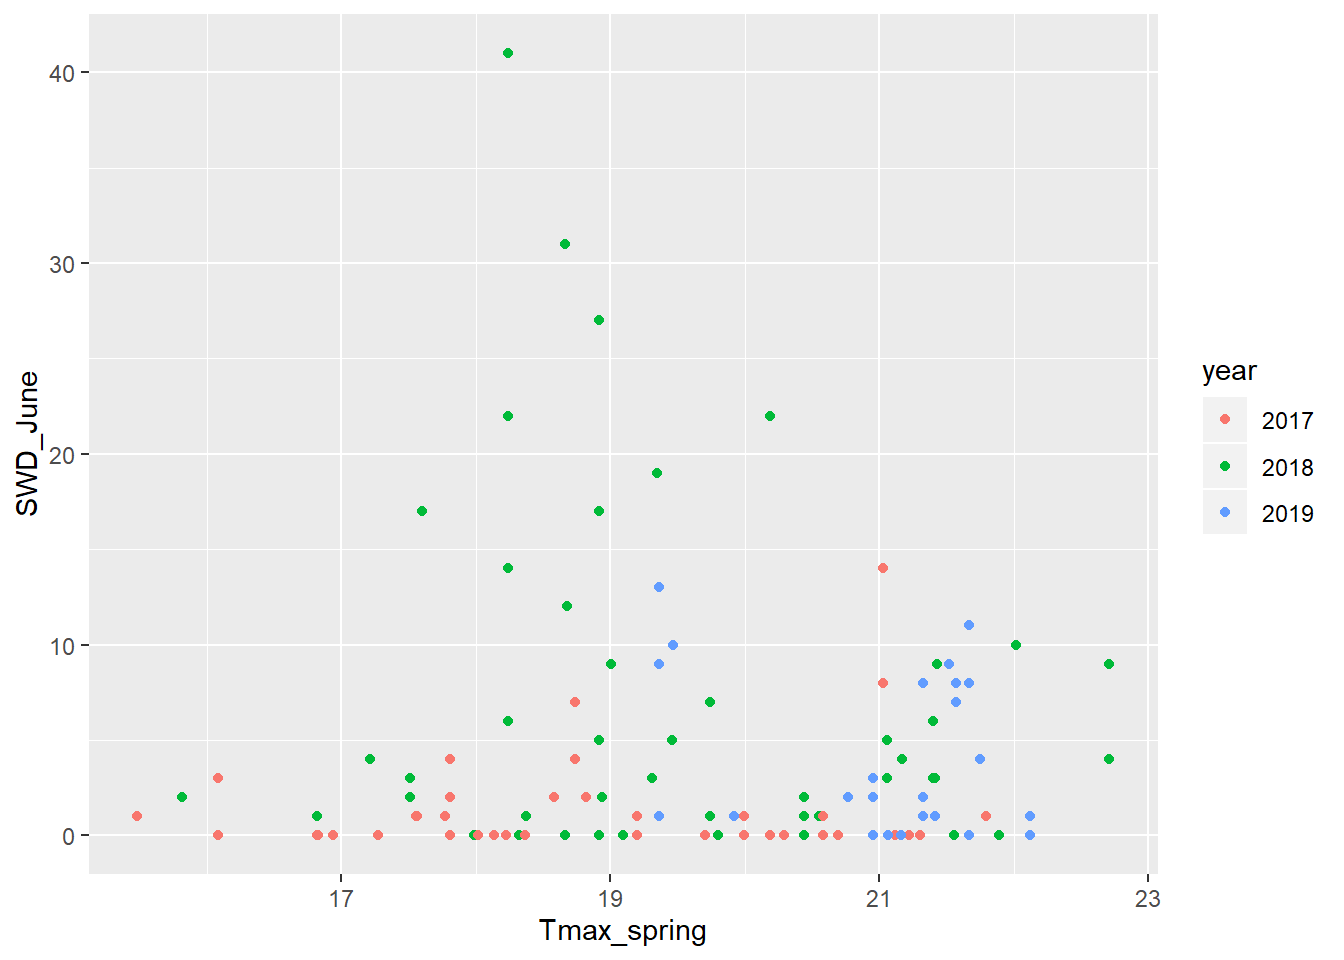
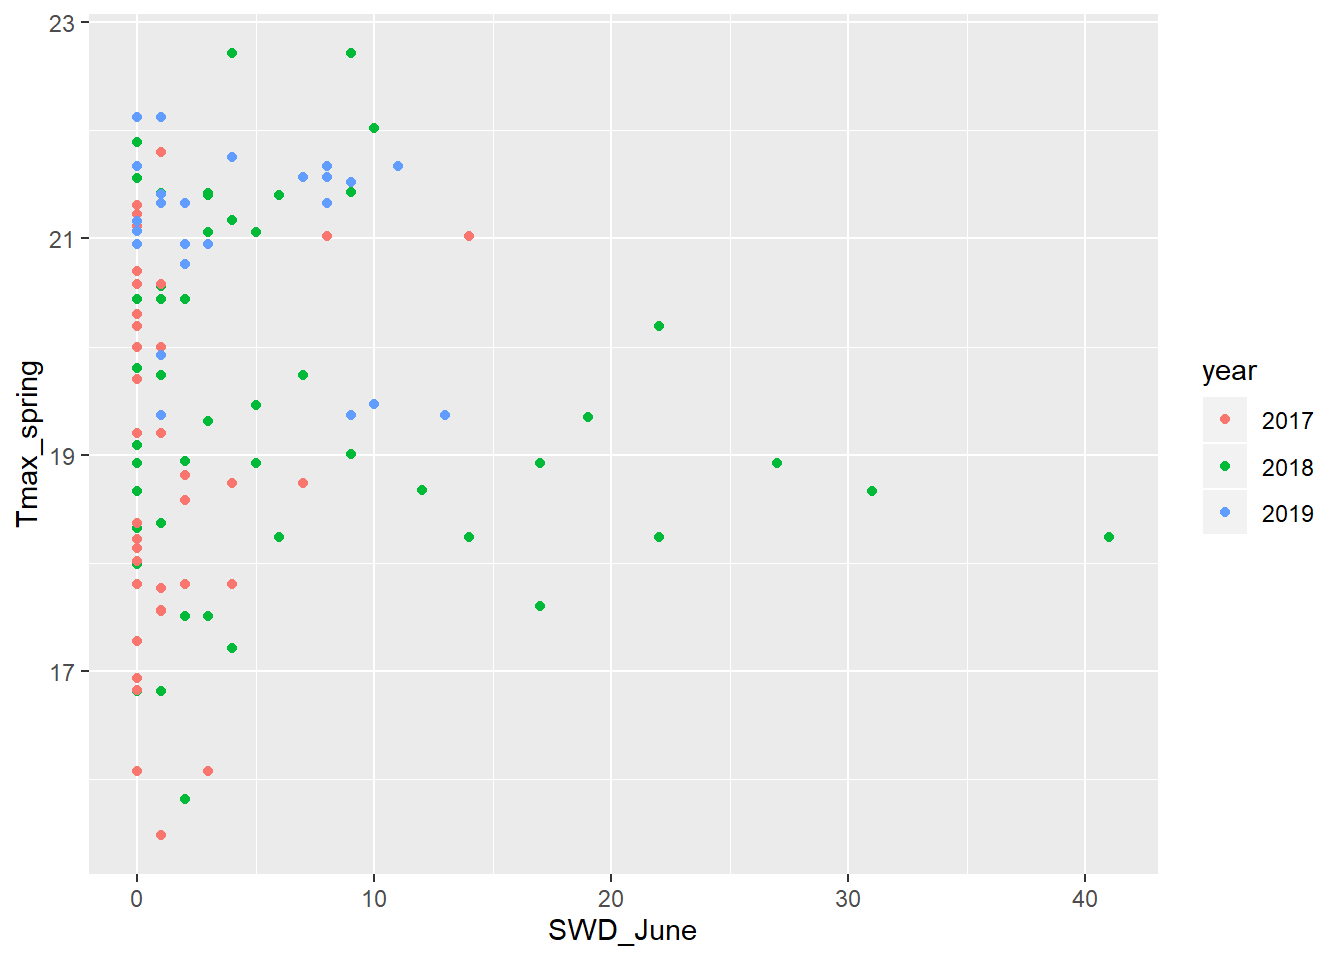
correct text

diff --git a/docs/swd_weather_cleanup.html b/docs/swd_weather_cleanup.html
@@ -2385,11 +2385,11 @@ for(n in seq(1, num_items)) {
 write.csv(weather_variables, &quot;C:/Users/rendonda/Documents/Oregon State/Datasheets/SWD wild sites/Weather station data/US pest stations/DD models/clean weather data/weather_station_list_results_2019.csv&quot;, na=&quot;&quot;, row.names = FALSE)</code></pre>
 <p>And this is then what the resulting dataframe with the weather variables for 2019 looks like: <img src="Images/Pic_9.PNG" width="842" /></p>
 <p>Which I can then manually copy and paste into the larger database, or bind using inner_join or left_join. The end result is this, highlighting 2019 newly formatted and added data under the old 2017 data. This same script can be reused for 2020, and any following year… <img src="Images/Pic_10.PNG" width="943" /></p>
-<p>Let’s visually examine it and see what it looks like. I’ll compare the total SWD collected in 2017, 2018, and 2019 as a function of the maximum spring temperature.</p>
+<p>Let’s visually examine it and see what it looks like. I’ll compare the total SWD collected in June as a function of the maximum spring temperature for 2017, 2018, and 2019.</p>
 <pre class="r"><code>swd_weather &lt;- read.csv(&quot;C:/Users/rendonda/Documents/Oregon State/Datasheets/SWD wild sites/SWD_traps_HR_Wasco_171819.csv&quot;, stringsAsFactors = FALSE)
 swd_weather$year &lt;- as.character(swd_weather$year)
 ggplot(data = swd_weather)+
-  geom_point(mapping= aes(x = Tmax_spring, y = SWD_June, color = year))</code></pre>
+  geom_point(mapping= aes(y = Tmax_spring, x = SWD_June, color = year))</code></pre>
 <p><img src="swd_weather_cleanup_files/figure-html/unnamed-chunk-37-1.png" width="672" /></p>
 <p>It seems that there is no relationship between spring temperatures and total SWD catch in June. But now many more complex analyses can be done with this clean dataset.</p>
 </div>
